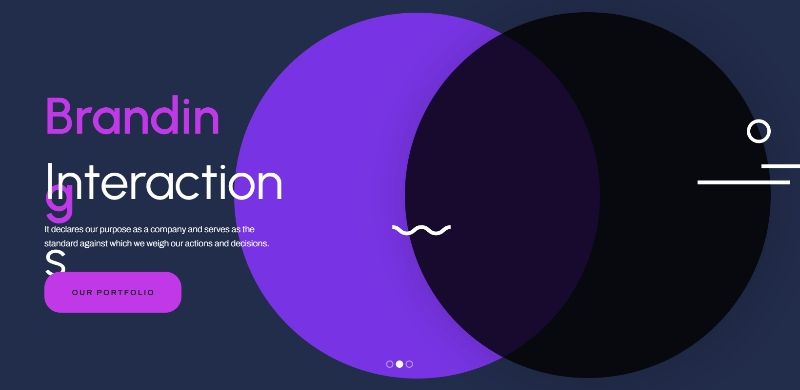
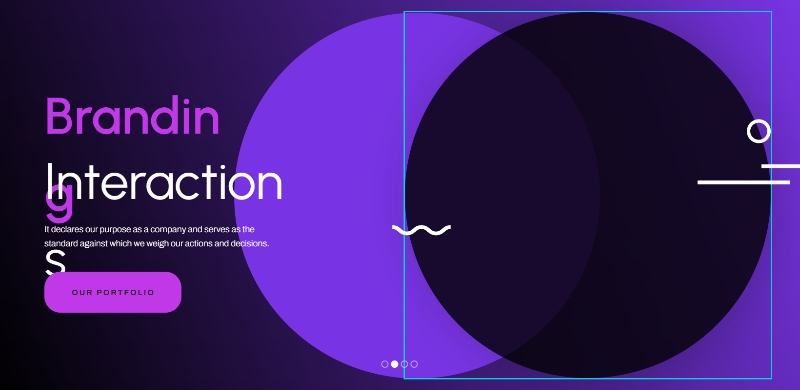
add images

diff --git a/wp-content/uploads/depicter/css/1.css b/wp-content/uploads/depicter/css/1.css
@@ -73,12 +73,15 @@
 	box-shadow:10px 3px 99px 0px rgba(0, 0, 0, 0.2);
 	border-radius:50%;
 }
+.depicter-revert .depicter-1-element-2-frame{
+	mix-blend-mode:normal;
+}
 .depicter-revert .depicter-1-element-3{
 	background-color:#06EE68;
 	border-radius:50%;
 }
 .depicter-revert .depicter-1-section-1 .depicter-section-background{
-	background-color:#0A4218;
+	background-image:linear-gradient(-67.6deg, #06EE68 0%, #000 74%);
 }
 .depicter-revert .depicter-1-element-43{
 	transform:scaleX(1) scaleY(1);
@@ -140,14 +143,17 @@
 }
 .depicter-revert .depicter-1-element-36{
 	transform:scaleX(1) scaleY(1);
-	background-color:#7834e4;
+	background-color:#7834E4;
 	border-radius:50%;
 }
 .depicter-revert .depicter-1-section-34 .depicter-section-background{
-	background-color:#222C4B;
+	background-image:linear-gradient(-111.1deg, #7834E4 0%, #000 100%);
 }
 .depicter-revert .depicter-1-element-55{
 	transform:scaleX(1) scaleY(1);
+}
+.depicter-revert .depicter-1-element-58{
+	border-radius:50%;
 }
 .depicter-revert .depicter-1-element-56{
 	transform:scaleX(1) scaleY(1);
@@ -198,17 +204,77 @@
 	font-weight:600;
 	background-color:transparent;
 }
-.depicter-revert .depicter-1-element-58{
-	transform:scaleX(1) scaleY(1);
-	border-radius:50%;
-}
 .depicter-revert .depicter-1-element-48{
 	transform:scaleX(1) scaleY(1);
-	background-color:#2b8288;
+	background-color:#222C4B;
 	border-radius:50%;
 }
 .depicter-revert .depicter-1-section-47 .depicter-section-background{
-	background-color:#222C4B;
+	background-image:linear-gradient(90deg, #000 0%, #222C4B 100%);
+}
+.depicter-revert .depicter-1-element-99{
+	transform:scaleX(1) scaleY(1);
+}
+.depicter-revert .depicter-1-element-101{
+	transform:scaleX(1) scaleY(1);
+	border-radius:50%;
+}
+.depicter-revert .depicter-1-element-100{
+	transform:scaleX(1) scaleY(1);
+}
+.depicter-revert .depicter-1-element-98{
+	transform:scaleX(1) scaleY(1);
+}
+.depicter-revert .depicter-1-element-97{
+	transform:scaleX(1) scaleY(1);
+}
+.depicter-revert .depicter-1-element-96{
+	padding:11px 25px 10px 27px;
+	font-size:16px;
+	text-align:center;
+	color:#222222;
+	font-family:"Archivo";
+	font-weight:600;
+	text-transform:uppercase;
+	letter-spacing:3px;
+	transform:scaleX(1) scaleY(1);
+	background-color:#67FDB1;
+	border-radius:33px;
+}
+.depicter-revert .depicter-1-element-96:not(.depicter-hover-off){
+	transition:all ease 0.3s;
+}
+.depicter-revert .depicter-1-element-95{
+	font-size:18px;
+	color:#ffffff;
+	font-family:"Archivo";
+	font-weight:300;
+	line-height:160%;
+	transform:scaleX(1) scaleY(1);
+	background-color:transparent;
+}
+.depicter-revert .depicter-1-element-94{
+	font-size:105px;
+	color:#ffffff;
+	font-family:"Urbanist";
+	font-weight:400;
+	transform:scaleX(1) scaleY(1);
+	background-color:transparent;
+}
+.depicter-revert .depicter-1-element-93{
+	font-size:105px;
+	color:#67fdb1;
+	font-family:"Urbanist";
+	font-weight:600;
+	background-color:transparent;
+}
+.depicter-revert .depicter-1-element-92{
+	transform:scaleX(1) scaleY(1);
+	background-color:#2B8288;
+	border-radius:50%;
+}
+.depicter-revert .depicter-1-section-91 .depicter-section-background{
+	background-image:linear-gradient(62.9deg, #000 0%, #2B8288 98%);
 }
 
 /***** Tablet *****/
@@ -314,6 +380,39 @@
 	transform:scaleX(1) scaleY(1);
 }
 .depicter-revert .depicter-1-element-48{
+	transform:scaleX(1) scaleY(1);
+}
+.depicter-revert .depicter-1-element-97{
+	transform:scaleX(1) scaleY(1);
+}
+.depicter-revert .depicter-1-element-96{
+	font-size:14px;
+	text-align:center;
+	color:#222222;
+	font-family:"Archivo";
+	font-weight:600;
+	text-transform:uppercase;
+	letter-spacing:3px;
+	transform:scaleX(1) scaleY(1);
+}
+.depicter-revert .depicter-1-element-95{
+	transform:scaleX(1) scaleY(1);
+}
+.depicter-revert .depicter-1-element-94{
+	font-size:72px;
+	color:#ffffff;
+	font-family:"Urbanist";
+	font-weight:400;
+	transform:scaleX(1) scaleY(1);
+}
+.depicter-revert .depicter-1-element-93{
+	font-size:72px;
+	color:#46ffb1;
+	font-family:"Urbanist";
+	font-weight:600;
+	transform:scaleX(1) scaleY(1);
+}
+.depicter-revert .depicter-1-element-92{
 	transform:scaleX(1) scaleY(1);
 }
 
@@ -446,6 +545,48 @@
 	transform:scaleX(1) scaleY(1);
 }
 .depicter-revert .depicter-1-element-48{
+	transform:scaleX(1) scaleY(1);
+}
+.depicter-revert .depicter-1-element-99{
+	transform:scaleX(1) scaleY(1);
+}
+.depicter-revert .depicter-1-element-100{
+	transform:scaleX(1) scaleY(1);
+}
+.depicter-revert .depicter-1-element-98{
+	transform:scaleX(1) scaleY(1);
+}
+.depicter-revert .depicter-1-element-97{
+	transform:scaleX(1) scaleY(1);
+}
+.depicter-revert .depicter-1-element-96{
+	transform:scaleX(1) scaleY(1);
+}
+.depicter-revert .depicter-1-element-95{
+	font-size:15px;
+	text-align:center;
+	color:#ffffff;
+	font-family:"Archivo";
+	font-weight:300;
+	transform:scaleX(1) scaleY(1);
+}
+.depicter-revert .depicter-1-element-94{
+	font-size:45px;
+	text-align:center;
+	color:#ffffff;
+	font-family:"Urbanist";
+	font-weight:400;
+	transform:scaleX(1) scaleY(1);
+}
+.depicter-revert .depicter-1-element-93{
+	font-size:45px;
+	text-align:center;
+	color:#46ffb1;
+	font-family:"Urbanist";
+	font-weight:600;
+	transform:scaleX(1) scaleY(1);
+}
+.depicter-revert .depicter-1-element-92{
 	transform:scaleX(1) scaleY(1);
 }
 
